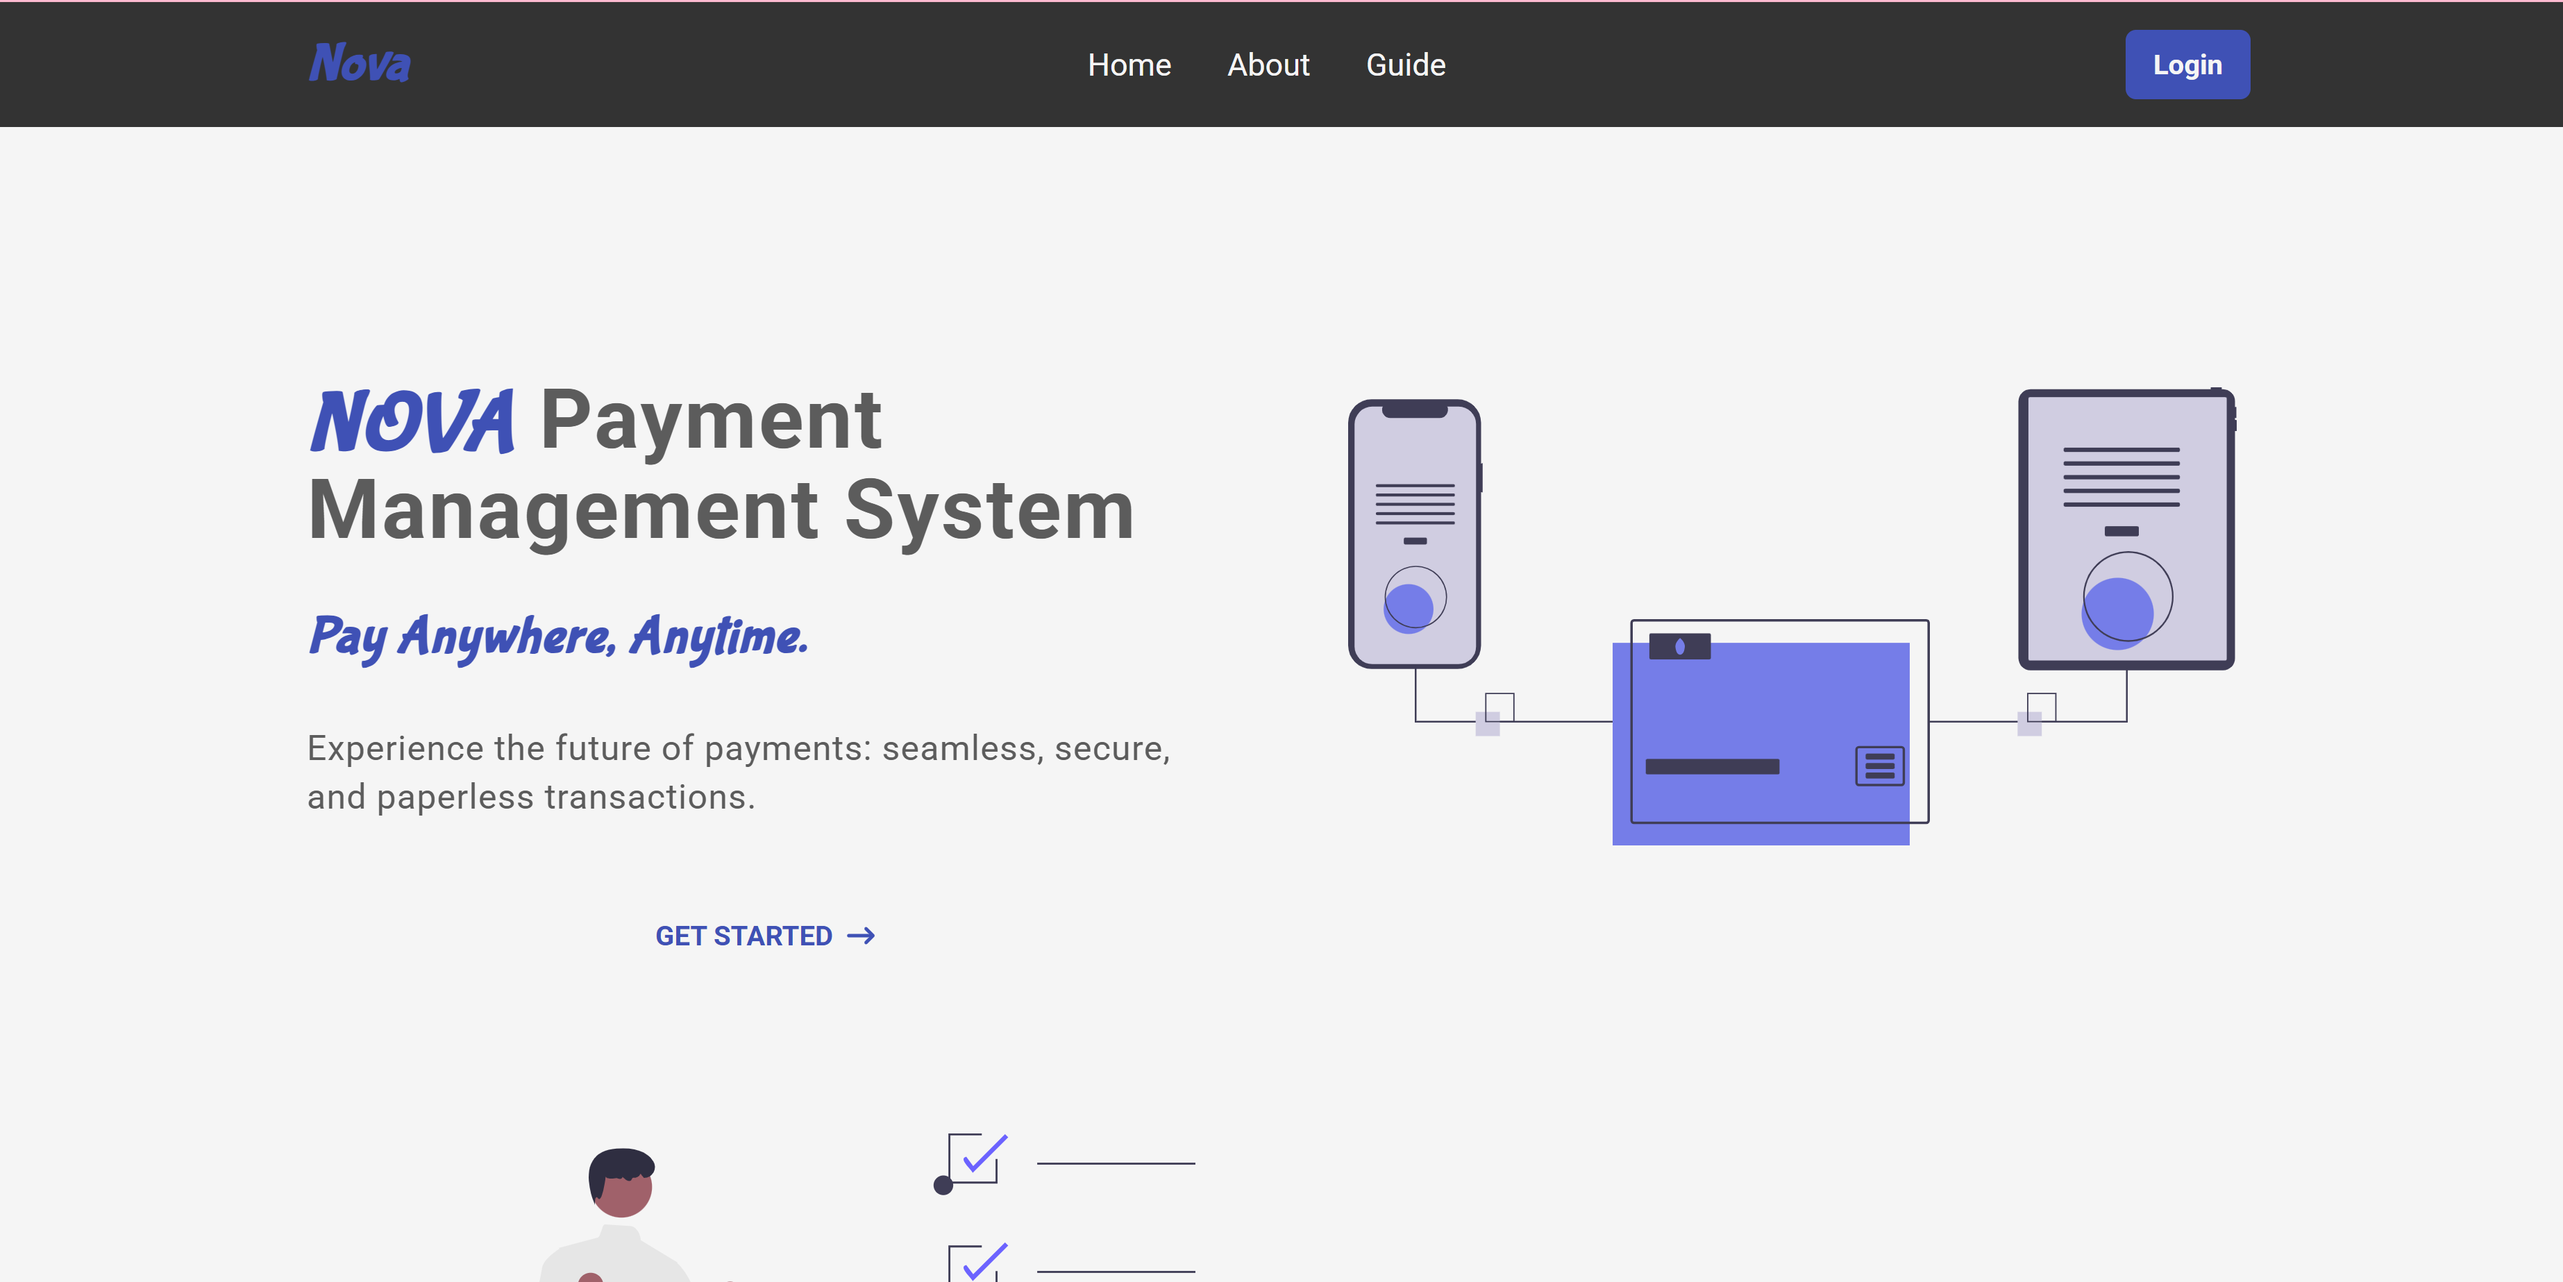
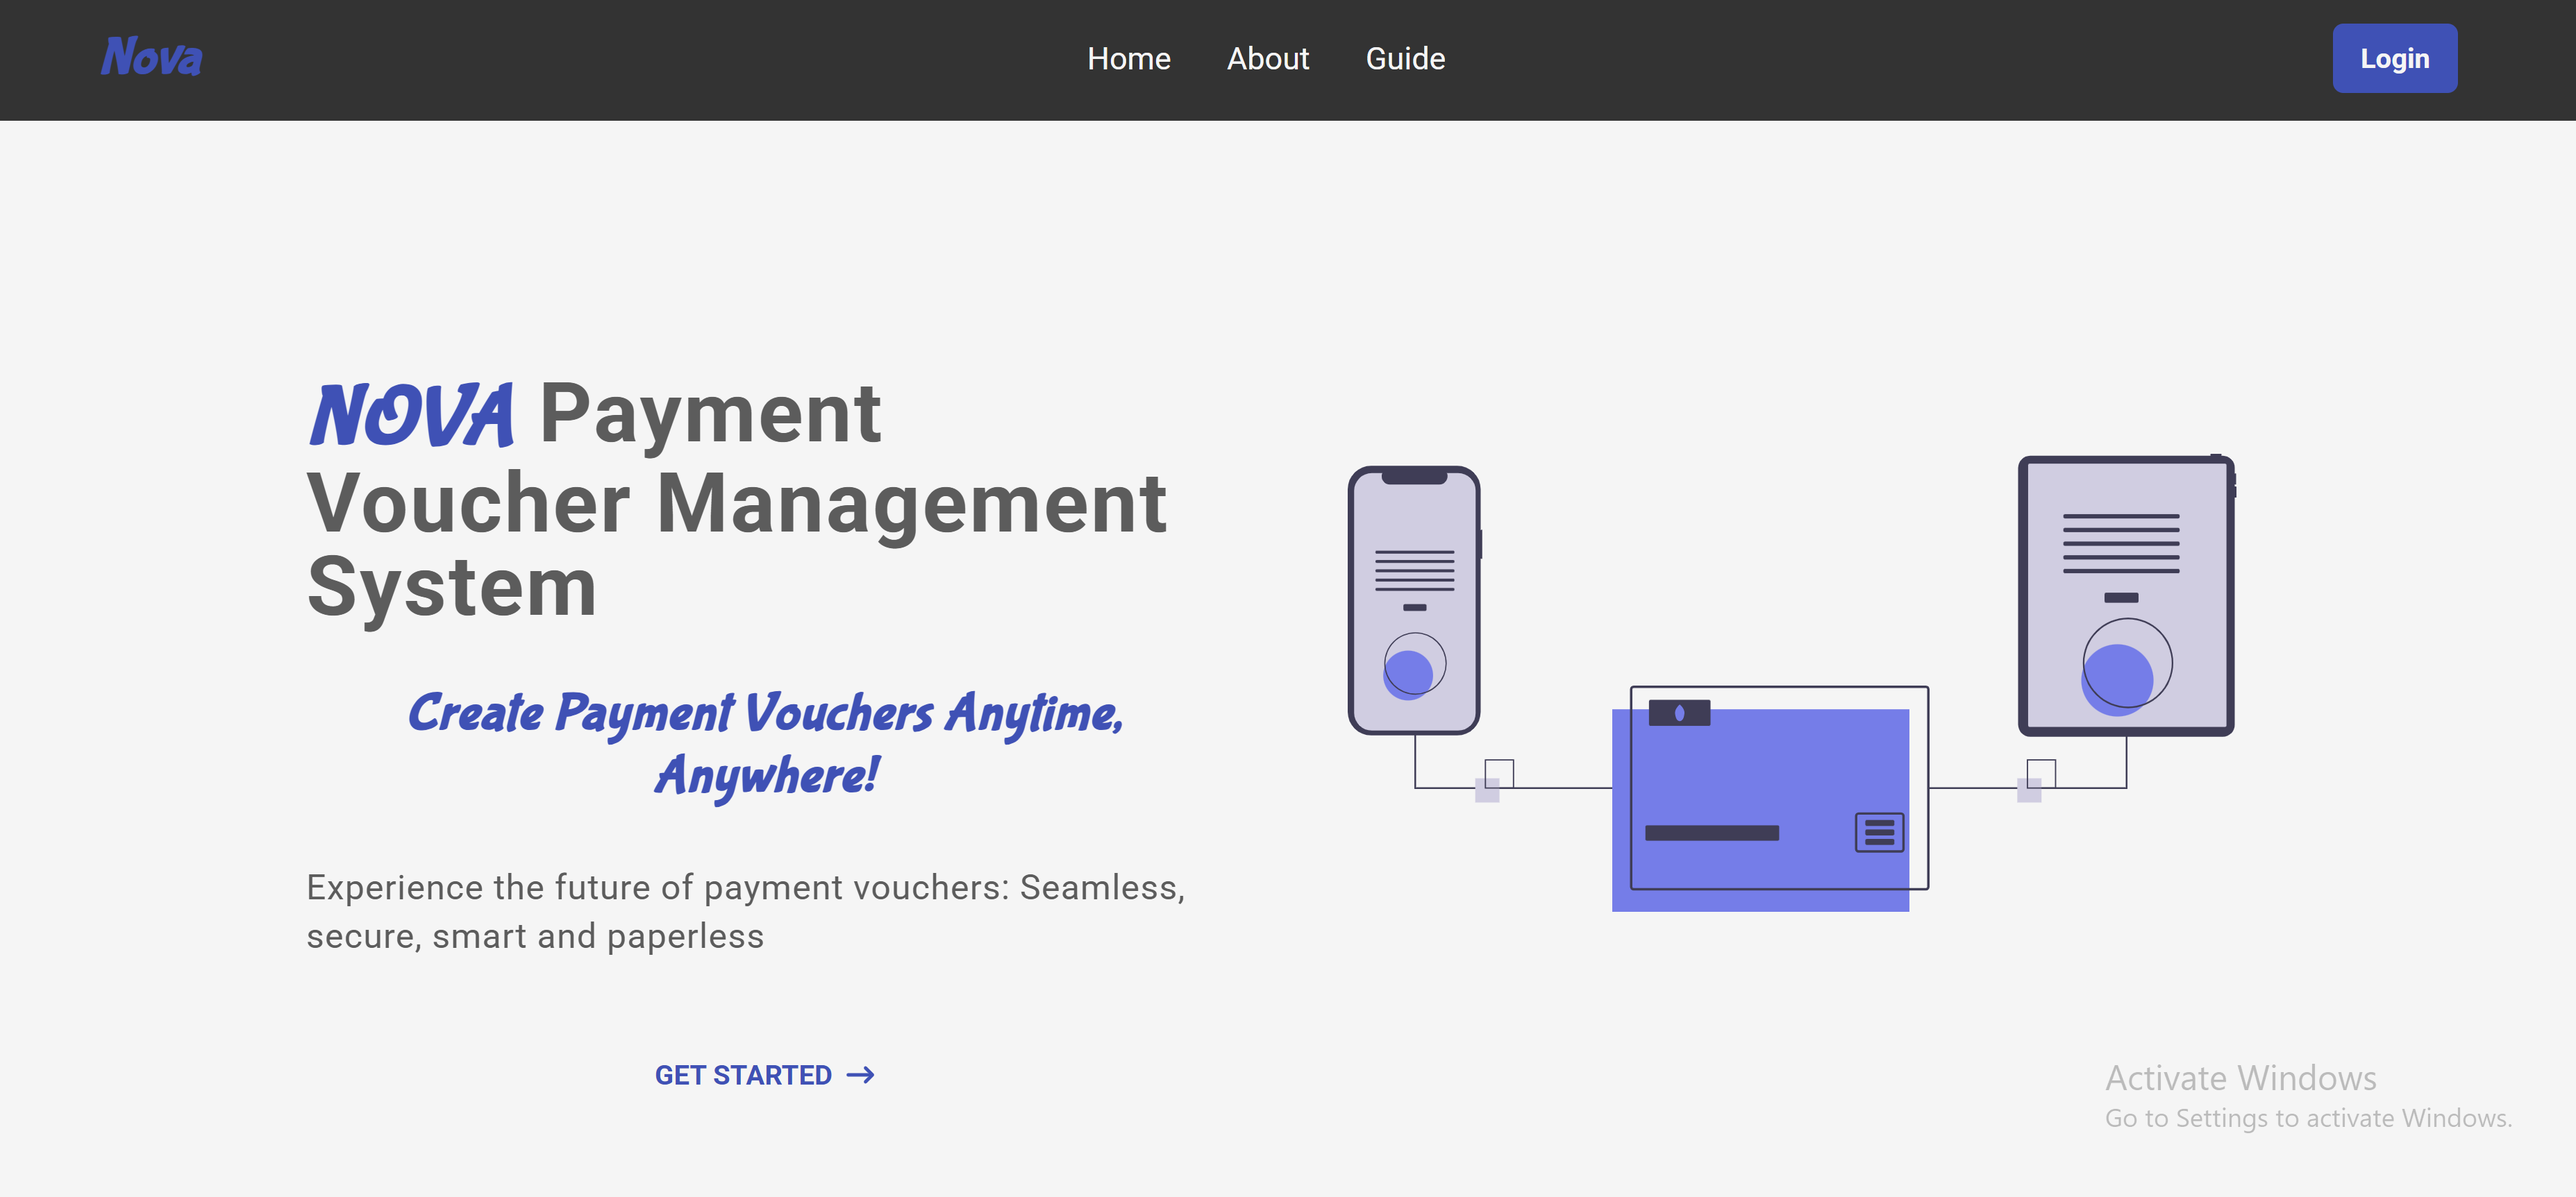
edit Hero section

diff --git a/src/components/Hero.jsx b/src/components/Hero.jsx
@@ -44,14 +44,13 @@ function Hero() {
         <div className="text-center md:text-left space-y-8 leading-loose mt-16">
           <h1 className="text-3xl md:text-5xl font-bold font-Roboto leading-relaxed tracking-wide">
             <span className="text-[#3F51B5] italic font-Bubblegum">NOVA</span>{" "}
-            Payment Management System
+            Payment Voucher Management System
           </h1>
-          <h2 className="text-2xl md:text-3xl font-semibold font-Bubblegum italic text-[#3F51B5] tracking-wide">
-            Pay Anywhere, Anytime.
+          <h2 className="text-2xl md:text-3xl font-semibold font-Bubblegum italic text-[#3F51B5] tracking-wide text-center">
+          Create Payment Vouchers Anytime, Anywhere!
           </h2>
           <p className="text-lg md:text-xl font-Roboto tracking-wide">
-            Experience the future of payments: seamless, secure, and paperless
-            transactions.
+          	Experience the future of payment vouchers: Seamless, secure, smart and paperless 
           </p>
           <div className="flex justify-center items-center">
             <Link to="/login">
@@ -76,27 +75,26 @@ function Hero() {
         </div>
       </motion.div>
 
-      {/* Second Section */}
-      <div className="container mx-auto px-8 lg:px-20 max-w-screen-xl flex flex-col md:flex-row items-center gap-16 text-center md:text-left mt-24">
-        <motion.img
-          src="/undraw_online-payments_p97e.svg"
-          alt="Online Payments"
-          className="w-full max-w-md md:max-w-lg"
-          
-          initial={{ scale: 0.8, opacity: 0 }}
-          animate={{ scale: 1, opacity: 1 }}
-          transition={{ duration: 0.8, ease: "easeInOut" }}
-        />
-        <div className="space-y-6 max-w-md">
-          <h2 className="text-2xl md:text-3xl font-semibold font-Bubblegum italic text-[#3F51B5] tracking-wide">
-            Secure & Fast Transactions
-          </h2>
-          <p className="text-lg md:text-xl font-Roboto tracking-wide">
-            Our platform ensures that your payments are processed quickly and securely,
-            allowing you to focus on what matters most.
-          </p>
-        </div>
-      </div>
+    {/* Second Section */}
+<div className="container mx-auto px-8 lg:px-20 max-w-screen-xl grid grid-cols-1 md:grid-cols-2 gap-12 md:gap-40 items-center mt-24">
+  <motion.img
+    src="/undraw_done-checking_ra6c.svg"
+    alt="Secure Payments"
+    className="w-full max-w-sm md:max-w-md lg:max-w-lg mx-auto"
+    initial={{ scale: 0.8, opacity: 0 }}
+    animate={{ scale: 1, opacity: 1 }}
+    transition={{ duration: 0.8, ease: "easeInOut" }}
+  />
+  <div className="space-y-6 max-w-md">
+    <h2 className="text-2xl md:text-3xl font-semibold font-Bubblegum italic text-[#3F51B5] tracking-wide text-center">
+      Seamless, Secure, and Smart Transactions
+    </h2>
+    <p className="text-lg md:text-xl font-Roboto tracking-wider ">
+      Our platform boosts accountability by streamlining payments, enhancing efficiency, keeping accurate records, minimizing manual errors, and eliminating paperwork.
+    </p>
+  </div>
+</div>
+
 
       {/* Final Image Section */}
       <div className="container mx-auto px-8 lg:px-20 max-w-screen-xl text-center mt-24 pb-20">
@@ -112,7 +110,7 @@ function Hero() {
           Your Security, Our Priority
         </h2>
         <p className="text-lg md:text-xl font-Roboto tracking-wide mt-4">
-          We prioritize data protection, ensuring your transactions are safe.
+          We prioritize data protection, ensuring your payment vouchers are safe.
         </p>
       </div>
     </div>
